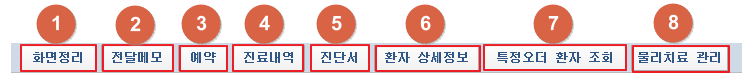
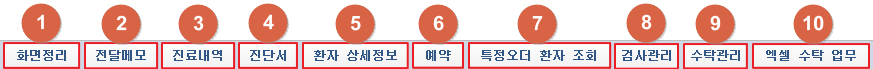
검사실 수탁관리, 기능버튼 매뉴얼

diff --git a/_docs/main8/sub1/page10.md b/_docs/main8/sub1/page10.md
@@ -4,3 +4,127 @@ subCategory: 검사실
 mainCategory: 프로그램 활용 - 지원부서
 pageOrder: 10
 ---
+
+
+<pre>
+ <t2><bold>1. 수탁관리</bold></t2>
+     ① [수탁관리] 버튼 클릭 시 수탁검사 관련 컨텍스트 메뉴가 표시됩니다.
+</pre>
+
+[![](/images/{{page.url}}_1.png)](/images/{{page.url}}_1.png){: target="_blank"}
+
+<pre>
+ <t2><bold>2. 검사라이브러리 코드 수신</bold></t2>
+     ① [예] 버튼 클릭 시 검사라이브러리 코드가 수신됩니다.
+     ② 프로그래스 바로 진행상황이 표시됩니다.
+</pre>
+[![](/images/{{page.url}}_2.png)](/images/{{page.url}}_2_1.png){: target="_blank"}
+
+<pre>
+ <t2><bold>3. 수탁검사코드 일괄등록</bold></t2>
+     ① 검색조건을 설정하여 수탁검사 수가 목록을 검색할 수 있습니다.
+         검색어 입력 후 엔터 시 검색됩니다. 
+         매핑여부 콤보박스 변경 시 즉시 검색됩니다.
+     ② 수탁검사 수가목록이 표시됩니다. 수가를 우클릭 시 컨텍스트메뉴가 열립니다.
+         [수탁매핑 취소] 메뉴 클릭 시 수가가 매핑되어있는 경우 매핑을 취소합니다.
+         [청구코드 기준 수탁코드 검색] 메뉴 클릭 시 청구코드 기준으로 라이브러리의 수탁코드를 검색합니다.
+         [대표검사코드 기준 수탁코드 검색] 메뉴 클릭 시 대표검사코드 기준으로 라이브러리의 수탁코드를 검색합니다.
+     ③ 검색조건을 설정하여 라이브러리의 수탁코드를 검색합니다. 
+         검색어 입력 후 엔터 시 검색됩니다.
+     ④ 라이브러리의 수탁코드 목록이 표시됩니다. 
+         더블클릭 시 선택되어있는 수탁검사 수가와 매핑할 수 있습니다.
+     ⑤ [청구코드 기준 일괄 매핑] 버튼 클릭 시 청구코드를 기준으로 일괄 매핑됩니다.
+         [위탁기관 관리] 버튼 클릭 시 위탁기관 설정 창이 팝업됩니다.
+</pre>
+
+[![](/images/{{page.url}}_3.png)](/images/{{page.url}}_3.png){: target="_blank"}
+
+<pre>
+ <t2><bold>4. 수탁검사코드 매핑 관리</bold></t2>
+     ① [새로 매핑 요청] 버튼 클릭 시 수탁검사코드 매핑 요청 창이 팝업됩니다.
+         [매핑결과 수신] 버튼 클릭 시 매핑 결과를 수신합니다. 진행상황이 프로그래스바로 표시됩니다.
+     ② 수탁검사코드 매핑 결과 목록을 표시합니다.
+         결과를 선택하면 ③번 영역에 세부항목이 표시됩니다.
+     ③ 수탁검사코드 매핑 결과 세부항목이 목록으로 표시됩니다.
+     ④ [매핑결과 적용] 버튼 클릭 시 검사코드를 기준으로 검사실 코드에 매핑 결과가 적용됩니다.
+</pre>
+
+[![](/images/{{page.url}}_4.png)](/images/{{page.url}}_4.png){: target="_blank"}
+
+<pre>
+ <t2><bold>5. 수탁검사코드 매핑 요청</bold></t2>
+     ① 수탁검사를 요청할 수탁업체를 선택합니다.
+     ② 전송할 수가코드를 체크합니다. 매핑요청 주의사항을 작성할 수 있습니다.
+     ③ 선택한 수가 코드에 매핑된 수탁검사 코드와 수탁업체를 중계기관에 전송합니다.
+</pre>
+
+[![](/images/{{page.url}}_5.png)](/images/{{page.url}}_5.png){: target="_blank"}
+
+<pre>
+ <t2><bold>6. 수탁검사 처방 현황 검색툴</bold></t2>
+     ① 검색조건을 설정하여 수탁검사 처방코드를 검색할 수 있습니다.
+        검색할 수가코드와 수가명 입력 후 엔터시 검색됩니다.
+        사용기간과 콤보박스 선택 후 검색버튼 클릭 시 검색됩니다.
+     ② 검색된 수탁검사 처방 코드 목록이 표시됩니다.
+     ③ [엑셀] 버튼 클릭 시 ②영역에 표시된 목록을 엑셀로 출력합니다.
+</pre>
+
+[![](/images/{{page.url}}_6.png)](/images/{{page.url}}_6.png){: target="_blank"}
+
+<pre>
+ <t2><bold>7. 수탁업체 관리</bold></t2>
+     ① [삭제] 버튼 클릭 시 선택된 위탁기관 정보가 삭제됩니다.
+         [새로입력] 버튼 클릭 시 위탁기관 정보의 각 항목이 초기화됩니다.
+         [주요 수탁기관] 버튼 클릭 시 주요 수탁기관 등급 확인 창이 팝업됩니다.
+         [저장] 버튼 클릭 시 편집한 내용이 저장됩니다.
+     ② 위탁기관 정보를 확인 및 편집할 수 있습니다. 
+         주요 수탁기관 등급 확인 창에서 수탁기관을 더블클릭 하거나 
+         [선택] 버튼 클릭 시 해당 수탁기관의 위탁기관정보가 추가됩니다.
+     ③ 위탁기관 정보의 위탁진료구분이 수탁검사인 경우 목록이 표시됩니다.
+         [추가] 버튼 클릭 시 일자별 위탁기관관리 창이 팝업됩니다. 
+     ④ 콤보박스 선택값을 변경하여 저장된 위탁기관을 위탁진료구분 별로 볼 수 있습니다.
+     ⑤ 위탁기관 목록이 표시됩니다. 선택된 위탁기관 정보가 ②, ③ 영역에 표시됩니다.
+</pre>
+
+[![](/images/{{page.url}}_7_1.png)](/images/{{page.url}}_7.png){: target="_blank"}
+<br/> 
+[![](/images/{{page.url}}_7_2.png)](/images/{{page.url}}_7.png){: target="_blank"}
+[주요 수탁기관 등급 확인 화면]
+
+<pre>
+ <t2><bold>8. 수탁검사 전송이력</bold></t2>
+     ① 검색조건을 설정하여 수탁검사 전송이력을 검색할 수 있습니다.
+         환자검색의 경우 환자 선택 후 즉시검색됩니다.
+     ② 수탁검사 전송이력이 목록으로 표시됩니다.
+         이력 선택 시 ③ 영역에 해당 이력의 오더내역이 표시됩니다.
+     ③ ② 에서 선택한 전송이력의 오더내역을 표시합니다.
+         내역 선택 시 ④ 영역에 해당 수탁검사의 상세 내용이 표시됩니다.
+         [오더취소] 버튼 클릭 시 선택된 오더 취소 요청이 전송됩니다.
+         [엑셀] 버튼 클릭 시 표시된 오더내역 목록을 엑셀로 출력할 수 있습니다. 
+     ④ ③ 에서 선택한 수탁검사의 상세내용이 목록으로 표시됩니다.
+         [엑셀] 버튼 클릭 시 표시된 상세 목록을 엑셀로 출력할 수 있습니다. 
+     ⑤ [수탁검사 결과 수신] 버튼 클릭 시 수탁검사 결과를 수신합니다.
+         프로그래스바로 진행상황이 표시됩니다.
+</pre>
+
+[![](/images/{{page.url}}_8.png)](/images/{{page.url}}_8.png){: target="_blank"}
+
+<pre>
+ <t2><bold>9. 수탁검사 미전송이력</bold></t2>
+     ① 검색조건을 설정하여 수탁검사 미전송이력을 검색할 수 있습니다.
+         환자검색의 경우 환자 선택 후 즉시검색됩니다.
+     ② 수탁검사 미전송 내역이 목록으로 표시됩니다.
+         내역 선택 시 ③ 영역에 해당 이력의 오더내역이 표시됩니다.
+     ③ ② 에서 선택한 전송이력의 오더내역을 표시합니다.
+         내역 선택 시 ④ 영역에 해당 수탁검사의 상세 내용이 표시됩니다.
+         [엑셀] 버튼 클릭 시 표시된 오더내역 목록을 엑셀로 출력할 수 있습니다. 
+     ④ ③ 에서 선택한 수탁검사의 상세내용이 목록으로 표시됩니다.
+          [엑셀] 버튼 클릭 시 표시된 상세 목록을 엑셀로 출력할 수 있습니다.
+     ⑤ [수탁검사 오더 전송] 버튼 클릭 시  검색된 수탁검사 미전송 내역을 모두 전송합니다.
+</pre>
+
+[![](/images/{{page.url}}_9.png)](/images/{{page.url}}_9.png){: target="_blank"}
+
+
+
+

diff --git a/_docs/main8/sub1/page11.md b/_docs/main8/sub1/page11.md
@@ -4,3 +4,23 @@ subCategory: 검사실
 mainCategory: 프로그램 활용 - 지원부서
 pageOrder: 11
 ---
+
+<pre>
+ <t2><bold>1. 툴 버튼 </bold></t2>
+     ① [화면정리] 버튼 클릭 시 환자정보와 검사 오더 내역이 초기화 됩니다.
+     ② [전달메모] 버튼 클릭 시 전달메모 창이 팝업됩니다.
+     ③ [진료내역] 버튼 클릭 시 진료내역 화면이 창으로 팝업됩니다. 
+     ④ [진단서] 버튼 클릭 시 서류발급 화면이 창으로 팝업됩니다. 
+     ⑤ [환자상세정보] 버튼 클릭 시 환자상세정보 창이 팝업됩니다.
+     ⑥ [예약] 버튼 클릭 시 예약 창이 팝업됩니다. 
+     ⑦ [특정오더 환자 조회] 버튼 클릭 시 특정내역 환자 조회 창이 팝업됩니다.
+     ⑧ [검사 관리] 버튼 클릭 시 검사 관리 기능과 연결되는 컨텍스트메뉴가 열립니다.
+     ⑨ [검사 관리] 버튼 클릭 시 검사 관리 기능과 연결되는 컨텍스트메뉴가 열립니다.
+     ⑩ [엑셀 수탁 업무] 버튼 클릭 시 엑셀 수탁 업무 창이 팝업됩니다. 
+         의뢰결과 가져오기 탭에서는 검사결과 엑셀 파일을 불러와 검사결과를 저장할 수 있습니다.
+         의뢰결과 검색 탭에서는 의뢰결과로 저장된 검사결과 목록을 검색할 수 있습니다.
+</pre>
+[![](/images/{{page.url}}_1.png)](/images/{{page.url}}_1.png){: target="_blank"}
+<br/><br/>
+[![](/images/{{page.url}}_2.png)](/images/{{page.url}}_2.png){: target="_blank"}
+[엑셀 수탁 업무 화면]

diff --git a/_docs/main8/sub1/page1.md b/_docs/main8/sub1/page1.md
@@ -7,7 +7,8 @@ pageOrder: 1
 
 <pre>
  <t2><bold>1. 검사실</bold></t2>
-     ① 검사실 대기자 및 차트기록, 소견리스트를 확인할 수 있습니다. 달력에 검사일자 및 진료일자가 표시됩니다.
+     ① 검사실 대기자 및 차트기록, 소견리스트를 확인할 수 있습니다. 
+         달력에 검사일자 및 진료일자가 표시됩니다.
      ② 환자검색 및 환자 정보를 확인할 수 있습니다.
      ③ 검색한 환자의 해당일자의 검사실 오더를 확인하고 결과를 입력 및 저장할 수 있습니다.
      ④ 가장 마지막으로 입력된 검사소견서의 내용이 표시됩니다.

diff --git a/_docs/main8/sub1.md b/_docs/main8/sub1.md
@@ -1,5 +1,5 @@
 ---
 title: 검사실
 mainCategory: 프로그램 활용 - 지원부서
-subOrder: 2
+subOrder: 1
 ---
